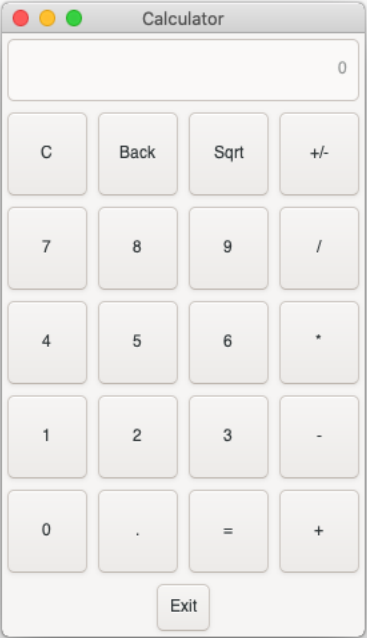
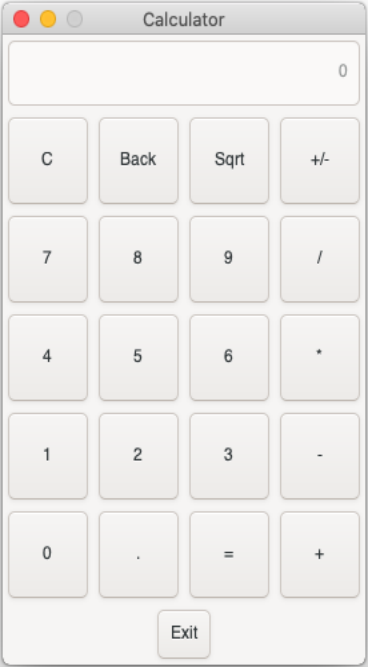
Disable zoom button on MacOS

diff --git a/src/VeDclTiles.js b/src/VeDclTiles.js
@@ -543,6 +543,9 @@ class Dialog extends Cluster {
         this._gtkWindow.on('show', () => {
             if (process.platform == 'darwin' && MacOS) {
                 setImmediate(() => {
+                    if (!this.is_resizable) {
+                        MacOS.disableZoomButton()
+                    }
                     MacOS.setProcessName(title)
                     MacOS.forceForegroundLevel()
                 })
